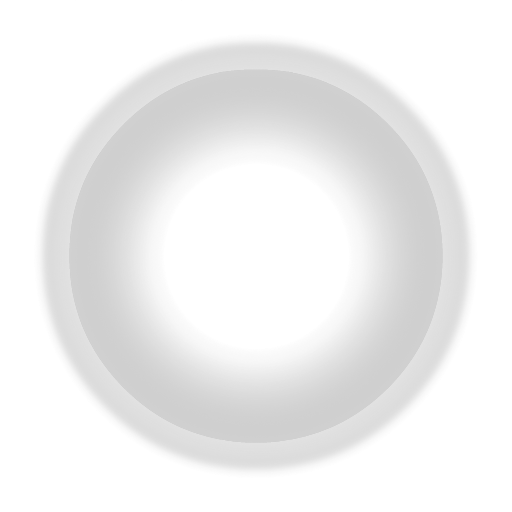
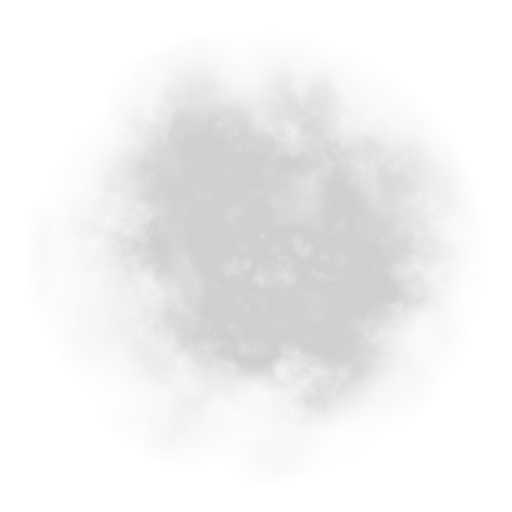
art(turkic-jam): intro sand reads as soft dust haze + outlined tutorial hand
Particles: swap the ringy Kenney circle for a soft smoke puff (CC0) and retune
draw_intro_fx to a slow, low-alpha drifting dust haze (no more visible rim), sized
relative to the viewport. Finger: replace the white tap glyph with a black-outline
pointing hand, keep its 160x188 aspect, render untinted, and on the black intro
center it horizontally with the tap-to-continue hint directly below.

diff --git a/games/turkic-jam-2026/src/view.c b/games/turkic-jam-2026/src/view.c
@@ -39,7 +39,14 @@ static const nt_ui_label_style_t s_stat = {.font_id = 0, .font_size = 20, .color
 static const nt_ui_label_style_t s_dim = {.font_id = 0, .font_size = 17, .color = {176.0F, 160.0F, 135.0F, 255.0F}, .align = CLAY_TEXT_ALIGN_CENTER};
 static const nt_ui_label_style_t s_card_name = {.font_id = 0, .font_size = 19, .color = {245.0F, 236.0F, 214.0F, 255.0F}, .align = CLAY_TEXT_ALIGN_CENTER};
 static const nt_ui_label_style_t s_die = {.font_id = 0, .font_size = 44, .color = {40.0F, 28.0F, 18.0F, 255.0F}, .align = CLAY_TEXT_ALIGN_CENTER};
-static const nt_ui_label_style_t s_die_event = {.font_id = 0, .font_size = 34, .color = {244.0F, 224.0F, 174.0F, 255.0F}, .align = CLAY_TEXT_ALIGN_CENTER};
+/* Dice-event "wheel of fate" window. */
+static const nt_ui_label_style_t s_ev_title = {.font_id = 0, .font_size = 28, .color = {240.0F, 212.0F, 150.0F, 255.0F}, .align = CLAY_TEXT_ALIGN_CENTER};
+static const nt_ui_label_style_t s_ev_check = {.font_id = 0, .font_size = 18, .color = {226.0F, 196.0F, 120.0F, 255.0F}, .align = CLAY_TEXT_ALIGN_CENTER};
+static const nt_ui_label_style_t s_wheel_chip = {.font_id = 0, .font_size = 15, .color = {210.0F, 196.0F, 166.0F, 255.0F}, .align = CLAY_TEXT_ALIGN_CENTER};
+static const nt_ui_label_style_t s_wheel_chip_sel = {.font_id = 0, .font_size = 16, .color = {32.0F, 24.0F, 12.0F, 255.0F}, .align = CLAY_TEXT_ALIGN_CENTER};
+static const nt_ui_label_style_t s_wheel_hub = {.font_id = 0, .font_size = 32, .color = {245.0F, 232.0F, 200.0F, 255.0F}, .align = CLAY_TEXT_ALIGN_CENTER};
+static const nt_ui_label_style_t s_ev_good = {.font_id = 0, .font_size = 24, .color = {126.0F, 200.0F, 134.0F, 255.0F}, .align = CLAY_TEXT_ALIGN_CENTER};
+static const nt_ui_label_style_t s_ev_bad = {.font_id = 0, .font_size = 24, .color = {230.0F, 110.0F, 78.0F, 255.0F}, .align = CLAY_TEXT_ALIGN_CENTER};
 
 #define TJ_PANEL_BG {35.0F, 31.0F, 24.0F, 255.0F}
 #define TJ_BAR_BG {31.0F, 28.0F, 22.0F, 255.0F}
@@ -280,25 +287,6 @@ static tj_cell_role_t current_cell_role(const tj_run_t *run) {
         return TJ_CELL_TRAIL;
     }
     return (tj_cell_role_t)run->cell_role[run->cell];
-}
-
-static uint32_t die_region_for_sides(const game_ctx_t *g, int sides) {
-    switch (sides) {
-    case 4:
-        return g->die_d[0];
-    case 6:
-        return g->die_d[1];
-    case 8:
-        return g->die_d[2];
-    case 10:
-        return g->die_d[3];
-    case 12:
-        return g->die_d[4];
-    case 20:
-        return g->die_d[5];
-    default:
-        return NT_ATLAS_INVALID_REGION;
-    }
 }
 
 static uint32_t tile_region_for_id(const game_ctx_t *g, const char *id) {
@@ -908,9 +896,9 @@ static void draw_build_hints(game_ctx_t *g, const tj_run_t *run, float pitch) {
 }
 
 /* First-run intro effects, drawn in the SPRITE world pass (Clay = UI only): the black
- * screen, drifting warm sand, and the dawn-reveal veil. Reads g->intro_* (set by the
- * scene). Sand is a soft round particle (Kenney CC0) tinted warm, alpha-blended on black
- * so it reads as glowing dust. */
+ * screen, drifting warm dust haze, and the dawn-reveal veil. Reads g->intro_* (set by the
+ * scene). Haze is a soft smoke puff (Kenney CC0) tinted warm, alpha-blended on black at low
+ * opacity so it reads as airborne dust without washing out the intro text. */
 static void draw_intro_fx(game_ctx_t *g) {
     float va = 1.0F; /* veil alpha: full black while waiting; eases off once the player taps */
     if (!g->intro_black) {
@@ -929,15 +917,16 @@ static void draw_intro_fx(game_ctx_t *g) {
     const float t = g->intro_anim_t;
     const float vw = s_map_vw;
     const float vh = s_map_vh;
-    for (int i = 0; i < 24; i++) {
-        const float spd = 14.0F + ((float)(i % 5) * 12.0F); /* wind: grains drift rightward */
+    const float vmin = fminf(vw, vh); /* size haze relative to the viewport so it scales */
+    for (int i = 0; i < 16; i++) {
+        const float spd = 6.0F + ((float)(i % 5) * 5.0F); /* wind: dust haze drifts slowly rightward */
         const float bx = (float)((i * 131) % 1000) / 1000.0F * vw;
         const float by = (float)((i * 197) % 1000) / 1000.0F * vh;
         const float gx = fmodf(bx + (t * spd), vw) - (vw * 0.5F);
-        const float gy = (by - (vh * 0.5F)) + (sinf((t * 0.5F) + (float)i) * 10.0F);
-        const float sz = 10.0F + ((float)(i % 3) * 6.0F);
-        const float al = (40.0F + ((float)(i % 4) * 34.0F)) * va;
-        const uint32_t col = pack_clay_color((Clay_Color){214.0F, 190.0F, 150.0F, al});
+        const float gy = (by - (vh * 0.5F)) + (sinf((t * 0.35F) + (float)i) * 14.0F);
+        const float sz = (vmin * 0.16F) + ((float)(i % 4) * vmin * 0.05F);
+        const float al = (10.0F + ((float)(i % 5) * 8.0F)) * va; /* low: intro text stays clean over the haze */
+        const uint32_t col = pack_clay_color((Clay_Color){206.0F, 184.0F, 148.0F, al});
         emit_map_quad(g, g->fx_sand_grain_01, col, sz, sz, gx, gy);
     }
 }
@@ -1169,49 +1158,176 @@ static void compact_fighter(game_ctx_t *g, uint32_t sprite, const char *name, fl
     }
 }
 
-/* Centered dice-event window: die rolls (spins then locks), then stat x multiplier
- * = effect vs DC, then success/fail — revealed over run->event_t. */
-static void event_overlay(game_ctx_t *g, const tj_run_t *run) {
-    static char dnum[8];
-    static char mathline[56];
-    static char resline[40];
-    const float dur = (g_config.event_reveal_seconds > 0.1F) ? g_config.event_reveal_seconds : 1.5F;
-    const float t = run->event_t;
-    const bool spinning = t < dur * 0.45F;
-    const bool show_math = t >= dur * 0.45F;
-    const bool show_res = t >= dur * 0.72F;
-    int shown = run->ev_roll;
-    if (spinning && run->ev_die > 0) {
-        shown = ((int)(t * 53.0F) % run->ev_die) + 1; /* cycling face while rolling */
+/* Localized window text per event kind (start_event's pick: 0=Завал/Сила,
+ * 1=Погоня/Скорость, 2=Буря/Выносливость). */
+static void event_strings(int kind, const char **title, const char **desc, const char **stat) {
+    switch (kind) {
+    case 1:
+        *title = pick_lang("Chase", "Погоня", "Takip");
+        *desc = pick_lang("Enemies hard on your heels.", "Враги гонятся по пятам.", "Dusmanlar pesinde.");
+        *stat = pick_lang("SPEED", "СКОРОСТЬ", "HIZ");
+        return;
+    case 2:
+        *title = pick_lang("Storm", "Буря", "Firtina");
+        *desc = pick_lang("A sandstorm saps your strength.", "Песчаная буря выматывает.", "Kum firtinasi yorar.");
+        *stat = pick_lang("VIGOR", "ВЫНОСЛИВОСТЬ", "DAYANIKLILIK");
+        return;
+    default:
+        *title = pick_lang("Rockfall", "Завал", "Heyelan");
+        *desc = pick_lang("Stones block the trail.", "Камни перекрыли тропу.", "Taslar yolu kapadi.");
+        *stat = pick_lang("STRENGTH", "СИЛА", "GUC");
+        return;
     }
-    (void)snprintf(dnum, sizeof dnum, "%d", shown);
+}
+
+/* "Wheel of fate" event window, staged over run->event_t: first the tested stat
+ * (title/threat/value), then the wheel spins and eases onto the precomputed roll
+ * (each face = a multiplier; 1 = miss, max = win), then stat x mult vs DC, then the
+ * outcome. Spin + chip positions are derived from event_t; the sim stores only the
+ * result. The winning face rests under the fixed top pointer. */
+/* Spin angle (radians) at reveal progress f: still during the intro beat, then a
+ * cubic ease-out over [0.14, 0.66] that lands face `target` under the top pointer
+ * (4 full turns first, so the deceleration reads as a real spin). */
+static float event_spin_amount(float f, int target, int die) {
+    const float two_pi = 6.2831853F;
+    const float step = two_pi / (float)die;
+    const float s_final = (two_pi * 4.0F) - ((float)target * step);
+    const float lo = 0.14F;
+    const float hi = 0.66F;
+    if (f <= lo) {
+        return 0.0F;
+    }
+    if (f >= hi) {
+        return s_final;
+    }
+    const float local = (f - lo) / (hi - lo);
+    const float inv = 1.0F - local;
+    return (1.0F - (inv * inv * inv)) * s_final;
+}
+
+/* Post-spin math + outcome lines. ev_roll 1 = miss, max = win, else stat x mult vs DC. */
+static void event_result_text(const tj_run_t *run, int die, const char *statname, char *mathline, size_t ml, char *resline, size_t rl) {
     const float mult = 1.0F + (g_config.event_dice_coeff * (float)run->ev_roll);
     const int eff = (int)((float)run->ev_stat * mult);
-    (void)snprintf(mathline, sizeof mathline, "%s %d  x%.2f  = %d", run->ev_statname, run->ev_stat, (double)mult, eff);
-    (void)snprintf(resline, sizeof resline, "DC %d  ->  %s", run->ev_dc, run->ev_pass ? "УСПЕХ" : "ПРОВАЛ");
+    if (run->ev_roll <= 1) {
+        (void)snprintf(mathline, ml, "%s", pick_lang("Natural 1 - miss", "Выпала 1 - провал", "Dogal 1 - iska"));
+    } else if (run->ev_roll >= die) {
+        (void)snprintf(mathline, ml, "%s", pick_lang("Maximum - hit!", "Максимум - успех!", "Maksimum!"));
+    } else {
+        (void)snprintf(mathline, ml, "%s %d  x%g  = %d   (DC %d)", statname, run->ev_stat, (double)mult, eff, run->ev_dc);
+    }
+    if (run->ev_pass) {
+        (void)snprintf(resline, rl, "%s   +%d", pick_lang("SUCCESS", "УСПЕХ", "BASARI"), run->ev_gain);
+    } else {
+        (void)snprintf(resline, rl, "%s   -%d HP", pick_lang("FAIL", "ПРОВАЛ", "BASARISIZ"), g_config.event_fail_hp);
+    }
+}
+
+/* One wheel face at (dx,dy) from the disc centre: roll = i+1 (1 = miss/red,
+ * die = win/green, else a multiplier); `sel` = resting under the pointer. `text`
+ * must outlive the frame — the caller owns the buffer (Clay stores it by pointer). */
+static void event_wheel_chip(game_ctx_t *g, int roll, int die, bool sel, float dx, float dy, char *text, size_t cap) {
+    if (roll <= 1) {
+        (void)snprintf(text, cap, "%s", pick_lang("miss", "мимо", "iska"));
+    } else if (roll >= die) {
+        (void)snprintf(text, cap, "%s", pick_lang("win", "куш", "kazanc"));
+    } else {
+        (void)snprintf(text, cap, "x%g", (double)(1.0F + (g_config.event_dice_coeff * (float)roll)));
+    }
+    Clay_Color bg = {58.0F, 46.0F, 30.0F, 240.0F};
+    if (sel) {
+        bg = (Clay_Color){236.0F, 196.0F, 96.0F, 255.0F};
+    } else if (roll <= 1) {
+        bg = (Clay_Color){96.0F, 44.0F, 36.0F, 240.0F};
+    } else if (roll >= die) {
+        bg = (Clay_Color){46.0F, 82.0F, 48.0F, 240.0F};
+    }
+    const Clay_Color bord = sel ? (Clay_Color){250.0F, 230.0F, 170.0F, 255.0F} : (Clay_Color){92.0F, 72.0F, 42.0F, 200.0F};
+    const float csz = sel ? 50.0F : 42.0F;
+    CLAY({.floating = {.attachTo = CLAY_ATTACH_TO_PARENT, .attachPoints = {.element = CLAY_ATTACH_POINT_CENTER_CENTER, .parent = CLAY_ATTACH_POINT_CENTER_CENTER}, .offset = {dx, dy}, .zIndex = 62},
+          .layout = {.sizing = {CLAY_SIZING_FIXED(csz), CLAY_SIZING_FIXED(csz)}, .childAlignment = {CLAY_ALIGN_X_CENTER, CLAY_ALIGN_Y_CENTER}},
+          .backgroundColor = bg,
+          .cornerRadius = CLAY_CORNER_RADIUS(csz * 0.5F),
+          .border = {.color = bord, .width = CLAY_BORDER_OUTSIDE(2)}}) {
+        nt_ui_label(g->ui, NT_UI_DATA_LAYER(TJ_LAYER_TEXT), text, sel ? &s_wheel_chip_sel : &s_wheel_chip);
+    }
+}
+
+/* The fate wheel: a disc with the multiplier faces around the rim (rotated by
+ * `spin`), the tested stat in the hub, and a fixed pointer at the top. */
+static void event_wheel(game_ctx_t *g, float spin, int hi_idx, int die, int nchips, const char *hubval, char chiptext[][16]) {
+    const float wheel = 250.0F;
+    const float ring_r = 96.0F;
+    const float step = 6.2831853F / (float)die;
+    CLAY({.layout = {.sizing = {CLAY_SIZING_FIXED(wheel), CLAY_SIZING_FIXED(wheel)}},
+          .backgroundColor = {26.0F, 20.0F, 13.0F, 255.0F},
+          .cornerRadius = CLAY_CORNER_RADIUS(wheel * 0.5F),
+          .border = {.color = {150.0F, 112.0F, 48.0F, 255.0F}, .width = CLAY_BORDER_OUTSIDE(3)}}) {
+        for (int i = 0; i < nchips; i++) {
+            const float ang = ((float)i * step) + spin;
+            event_wheel_chip(g, i + 1, die, i == hi_idx, ring_r * sinf(ang), -ring_r * cosf(ang), chiptext[i], sizeof chiptext[i]);
+        }
+        /* hub: the stat under test, shown from the first beat */
+        CLAY({.floating = {.attachTo = CLAY_ATTACH_TO_PARENT, .attachPoints = {.element = CLAY_ATTACH_POINT_CENTER_CENTER, .parent = CLAY_ATTACH_POINT_CENTER_CENTER}, .zIndex = 63},
+              .layout = {.sizing = {CLAY_SIZING_FIXED(80.0F), CLAY_SIZING_FIXED(80.0F)}, .childAlignment = {CLAY_ALIGN_X_CENTER, CLAY_ALIGN_Y_CENTER}},
+              .backgroundColor = {62.0F, 46.0F, 28.0F, 255.0F},
+              .cornerRadius = CLAY_CORNER_RADIUS(40.0F),
+              .border = {.color = {150.0F, 112.0F, 48.0F, 255.0F}, .width = CLAY_BORDER_OUTSIDE(2)}}) {
+            nt_ui_label(g->ui, NT_UI_DATA_LAYER(TJ_LAYER_TEXT), hubval, &s_wheel_hub);
+        }
+        /* fixed pointer near 12 o'clock — the face resting here is the result */
+        CLAY({.floating = {.attachTo = CLAY_ATTACH_TO_PARENT,
+                           .attachPoints = {.element = CLAY_ATTACH_POINT_CENTER_CENTER, .parent = CLAY_ATTACH_POINT_CENTER_CENTER},
+                           .offset = {0.0F, -(ring_r + 20.0F)},
+                           .zIndex = 64},
+              .layout = {.sizing = {CLAY_SIZING_FIXED(16.0F), CLAY_SIZING_FIXED(16.0F)}},
+              .backgroundColor = {250.0F, 220.0F, 120.0F, 255.0F},
+              .cornerRadius = CLAY_CORNER_RADIUS(4.0F)}) {}
+    }
+}
+
+static void event_overlay(game_ctx_t *g, const tj_run_t *run) {
+    static char chiptext[24][16];
+    static char checkbuf[48];
+    static char hubval[8];
+    static char mathline[64];
+    static char resline[48];
+    const float dur = (g_config.event_reveal_seconds > 0.1F) ? g_config.event_reveal_seconds : 3.0F;
+    const float f = (dur > 0.0F) ? (run->event_t / dur) : 1.0F; /* normalized reveal progress */
+    const int die = (run->ev_die > 1) ? run->ev_die : 10;
+    const int nchips = (die < 24) ? die : 24;
+    const int target = ((run->ev_roll >= 1) ? run->ev_roll : 1) - 1; /* 0-based landing face */
+    const float spin = event_spin_amount(f, target, die);
+    const int hi_idx = (f >= 0.66F) ? target : -1; /* the winner highlights once it settles */
+    const bool show_math = f >= 0.78F;
+    const bool show_res = f >= 0.90F;
+    const char *title = NULL;
+    const char *desc = NULL;
+    const char *statname = NULL;
+    event_strings(run->ev_kind, &title, &desc, &statname);
+    (void)snprintf(checkbuf, sizeof checkbuf, "%s: %s", pick_lang("Test", "Проверка", "Sinav"), statname);
+    (void)snprintf(hubval, sizeof hubval, "%d", run->ev_stat);
+    event_result_text(run, die, statname, mathline, sizeof mathline, resline, sizeof resline);
     CLAY({.floating = {.attachTo = CLAY_ATTACH_TO_PARENT, .attachPoints = {.element = CLAY_ATTACH_POINT_CENTER_CENTER, .parent = CLAY_ATTACH_POINT_CENTER_CENTER}, .zIndex = 60},
           .layout = {.sizing = {CLAY_SIZING_GROW(0), CLAY_SIZING_GROW(0)}, .childAlignment = {CLAY_ALIGN_X_CENTER, CLAY_ALIGN_Y_CENTER}},
-          .backgroundColor = {16.0F, 12.0F, 8.0F, 150.0F}}) {
-        CLAY({.layout = {.sizing = {CLAY_SIZING_FIXED(460), CLAY_SIZING_FIT(0)},
-                         .padding = CLAY_PADDING_ALL(22),
+          .backgroundColor = {16.0F, 12.0F, 8.0F, 175.0F}}) {
+        CLAY({.layout = {.sizing = {CLAY_SIZING_FIXED(420), CLAY_SIZING_FIT(0)},
+                         .padding = CLAY_PADDING_ALL(20),
                          .layoutDirection = CLAY_TOP_TO_BOTTOM,
-                         .childGap = 14,
+                         .childGap = 12,
                          .childAlignment = {CLAY_ALIGN_X_CENTER, CLAY_ALIGN_Y_CENTER}},
               .backgroundColor = {40.0F, 34.0F, 24.0F, 255.0F},
               .cornerRadius = CLAY_CORNER_RADIUS(16.0F),
               .border = {.color = {198.0F, 154.0F, 55.0F, 255.0F}, .width = CLAY_BORDER_OUTSIDE(2)}}) {
-            nt_ui_label(g->ui, NT_UI_DATA_LAYER(TJ_LAYER_TEXT), run->ev_name, &s_panel_title);
-            CLAY(
-                {.layout = {.sizing = {CLAY_SIZING_FIXED(108), CLAY_SIZING_FIT(0)}, .layoutDirection = CLAY_TOP_TO_BOTTOM, .childGap = 2, .childAlignment = {CLAY_ALIGN_X_CENTER, CLAY_ALIGN_Y_CENTER}},
-                 .backgroundColor = {24.0F, 18.0F, 12.0F, 0.0F}}) {
-                inline_sprite(g, die_region_for_sides(g, run->ev_die), 88.0F, 88.0F);
-                nt_ui_label(g->ui, NT_UI_DATA_LAYER(TJ_LAYER_TEXT), dnum, &s_die_event);
-            }
+            nt_ui_label(g->ui, NT_UI_DATA_LAYER(TJ_LAYER_TEXT), title, &s_ev_title);
+            nt_ui_label(g->ui, NT_UI_DATA_LAYER(TJ_LAYER_TEXT), desc, &s_dim);
+            nt_ui_label(g->ui, NT_UI_DATA_LAYER(TJ_LAYER_TEXT), checkbuf, &s_ev_check);
+            event_wheel(g, spin, hi_idx, die, nchips, hubval, chiptext);
             if (show_math) {
                 nt_ui_label(g->ui, NT_UI_DATA_LAYER(TJ_LAYER_TEXT), mathline, &s_stat);
             }
             if (show_res) {
-                nt_ui_label(g->ui, NT_UI_DATA_LAYER(TJ_LAYER_TEXT), resline, run->ev_pass ? &s_log_styles[TJ_LOG_GOOD] : &s_log_styles[TJ_LOG_BAD]);
+                nt_ui_label(g->ui, NT_UI_DATA_LAYER(TJ_LAYER_TEXT), resline, run->ev_pass ? &s_ev_good : &s_ev_bad);
             }
         }
     }
@@ -1607,9 +1723,9 @@ bool tj_view_launch_panel(game_ctx_t *g, const tj_run_t *run, float t) {
     if (has_region(g->ui_finger_pointer_128)) {
         const float bob = 2.0F + (8.0F * (0.5F + (0.5F * sinf(t * 4.0F)))); /* finger taps up toward the button */
         nt_ui_image_style_t fimg = nt_ui_image_style_defaults();
-        fimg.color_packed = 0xFFAAD6ECU; /* warm tint for the white Kenney finger glyph */
+        fimg.color_packed = 0xFFFFFFFFU; /* untinted: black-outline hand renders as-is */
         const Clay_ElementDeclaration fdecl = {
-            .layout = {.sizing = {CLAY_SIZING_FIXED(76.0F), CLAY_SIZING_FIXED(76.0F)}},
+            .layout = {.sizing = {CLAY_SIZING_FIXED(75.0F), CLAY_SIZING_FIXED(88.0F)}}, /* keep the hand's 160x188 aspect */
             .floating = {.attachTo = CLAY_ATTACH_TO_ELEMENT_WITH_ID,
                          .parentId = CLAY_ID("intro_send_box").id,
                          .attachPoints = {.element = CLAY_ATTACH_POINT_CENTER_TOP, .parent = CLAY_ATTACH_POINT_CENTER_BOTTOM},
@@ -1661,8 +1777,8 @@ void tj_view_intro_black(game_ctx_t *g, float t) {
     const float pulse = 0.55F + (0.45F * sinf(t * 3.2F));
     const nt_ui_label_style_t hint = {.font_id = 0, .font_size = 18, .color = {198.0F, 178.0F, 140.0F, 120.0F + (135.0F * pulse)}, .align = CLAY_TEXT_ALIGN_CENTER};
     CLAY({.floating = {.attachTo = CLAY_ATTACH_TO_ROOT,
-                       .attachPoints = {.element = CLAY_ATTACH_POINT_CENTER_BOTTOM, .parent = CLAY_ATTACH_POINT_CENTER_BOTTOM},
-                       .offset = {0.0F, -96.0F},
+                       .attachPoints = {.element = CLAY_ATTACH_POINT_CENTER_TOP, .parent = CLAY_ATTACH_POINT_CENTER_BOTTOM},
+                       .offset = {0.0F, -84.0F},
                        .zIndex = 91,
                        .pointerCaptureMode = CLAY_POINTER_CAPTURE_MODE_PASSTHROUGH},
           .layout = {.sizing = {CLAY_SIZING_FIT(0), CLAY_SIZING_FIT(0)}}}) {
@@ -1671,12 +1787,12 @@ void tj_view_intro_black(game_ctx_t *g, float t) {
     if (has_region(g->ui_finger_pointer_128)) {
         const float bob = sinf(t * 3.2F) * 7.0F;
         nt_ui_image_style_t fimg = nt_ui_image_style_defaults();
-        fimg.color_packed = 0xFFAAD6ECU; /* warm tint for the white Kenney finger glyph */
+        fimg.color_packed = 0xFFFFFFFFU; /* untinted: black-outline hand renders as-is */
         const Clay_ElementDeclaration fdecl = {
-            .layout = {.sizing = {CLAY_SIZING_FIXED(72.0F), CLAY_SIZING_FIXED(72.0F)}},
+            .layout = {.sizing = {CLAY_SIZING_FIXED(72.0F), CLAY_SIZING_FIXED(84.0F)}}, /* keep the hand's 160x188 aspect */
             .floating = {.attachTo = CLAY_ATTACH_TO_ROOT,
                          .attachPoints = {.element = CLAY_ATTACH_POINT_CENTER_TOP, .parent = CLAY_ATTACH_POINT_CENTER_BOTTOM},
-                         .offset = {120.0F, -88.0F + bob},
+                         .offset = {0.0F, -176.0F + bob},
                          .zIndex = 92,
                          .pointerCaptureMode = CLAY_POINTER_CAPTURE_MODE_PASSTHROUGH},
         };
